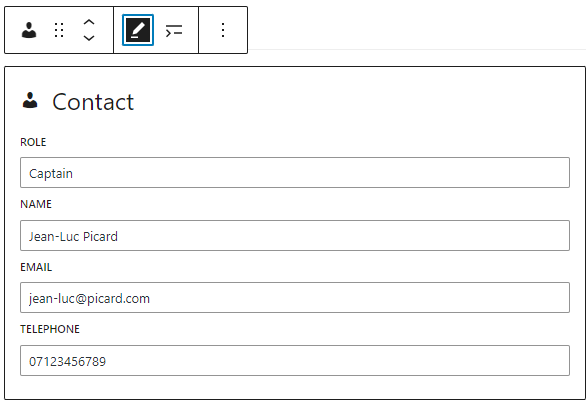
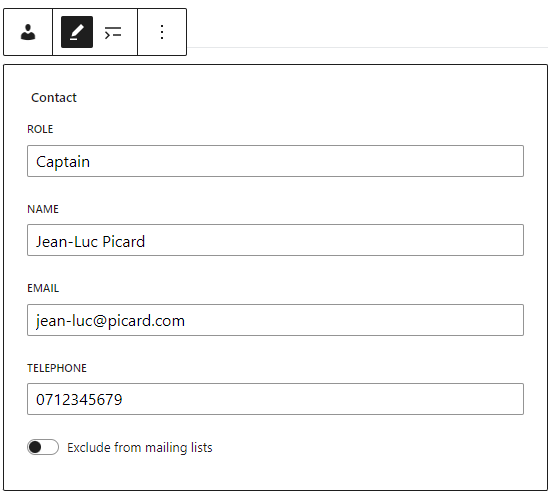
add page for mailing lists, exclude contacts
- add info on option to exclude from mailing lists on contact

Changed region(s): [[0.0, 0.0, 1.0, 1.0]]

diff --git a/mailing-lists.md b/mailing-lists.md
@@ -1,0 +1,13 @@
+---
+title: Mailing Lists
+---
+
+You can extract mailing lists for the clubs from `Clubs->Emails`.
+
+![Mailing Lists](assets/img/clubs-mailing-list.png)
+
+On that page you can extract the email addresses from the Contacts on all Clubs pages in different formats, and optionally include the SEMLA Officers on the Contacts page. It will not include any Contacts on other posts or pages.
+
+The page should be self explanatory, but you can use the `Display` button to see the mailing list it produces.
+
+To exclude a Contact from the mailing list you can set `Exclude from mailing lists` on the [Contact](contact.md).

diff --git a/contact.md b/contact.md
@@ -24,6 +24,8 @@ You can also make the contact details be shown on the next line to the role, usi
 
 ![Contact line below](assets/img/contact-line-below.png)
 
+You can also ensure the contact will not be included in the [Clubs mailing list](mailing-lists.md) by selecting `Exclude from mailing lists`.
+
 The block is also responsive so that when it's displayed on a device with a narrow page the role will be displayed on one line, and the contact details on the next line.
 
 ## Pasting Values

diff --git a/index.md b/index.md
@@ -20,6 +20,7 @@ These help files only cover SEMLA specific blocks and post types. It is assumed 
 ## For SEMLA Officers only
 
 * [Google Calendar Block](google-calendar.md) - to add a Google Calendar
+* [Mailing Lists](mailing-lists.md)
 * [Menus](menus.md)
 * [News & Categories Sidebar](news-sidebar.md) - edit the sidebar on lists of posts
 * [SEMLA Data Block](semla-data.md) - for league tables, fixtures, etc.
